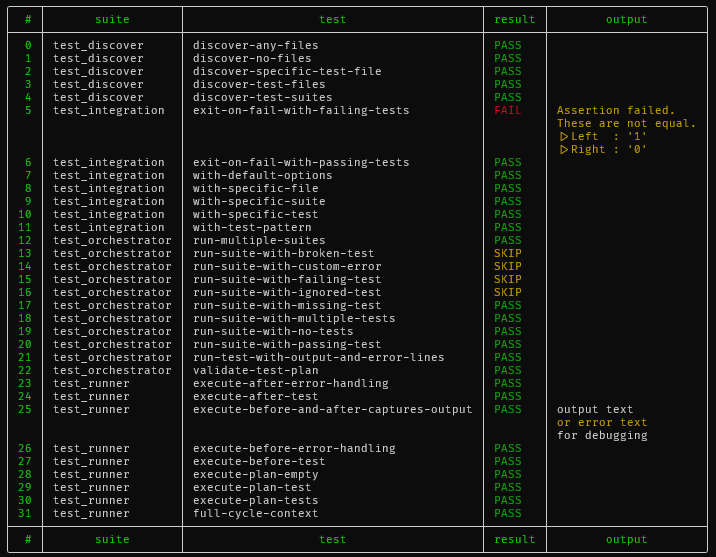
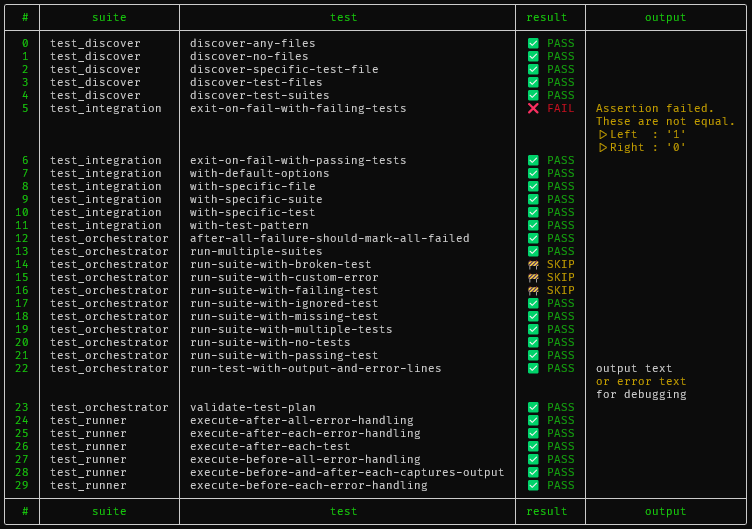
Generalise colour-scheme to theme and add emojis for pass/skip/fail

Changed region(s): [[0.0, 0.0, 1.0, 0.9981]]

diff --git a/README.md b/README.md
@@ -106,7 +106,7 @@ Allows before/after each/all to generate context for each test.
 
 Emits tests as a table of results that can be processed like normal Nu data. For example, you can filter the results to show only failed tests using:
 ```nu
-run-tests --no-color | where result == FAIL
+run-tests --no-theme | where result == FAIL
 ```
 
 Allows filter of suites and tests to run via a pattern, such as:
@@ -124,6 +124,7 @@ run-tests --fail
 
 ## Roadmap
 
+- Better error when --path doesn't exist
 - Add summary reporter
 - List tests without running them.
 - Test report in standard format (cargo test JSON or nextest / JUnit XML)
